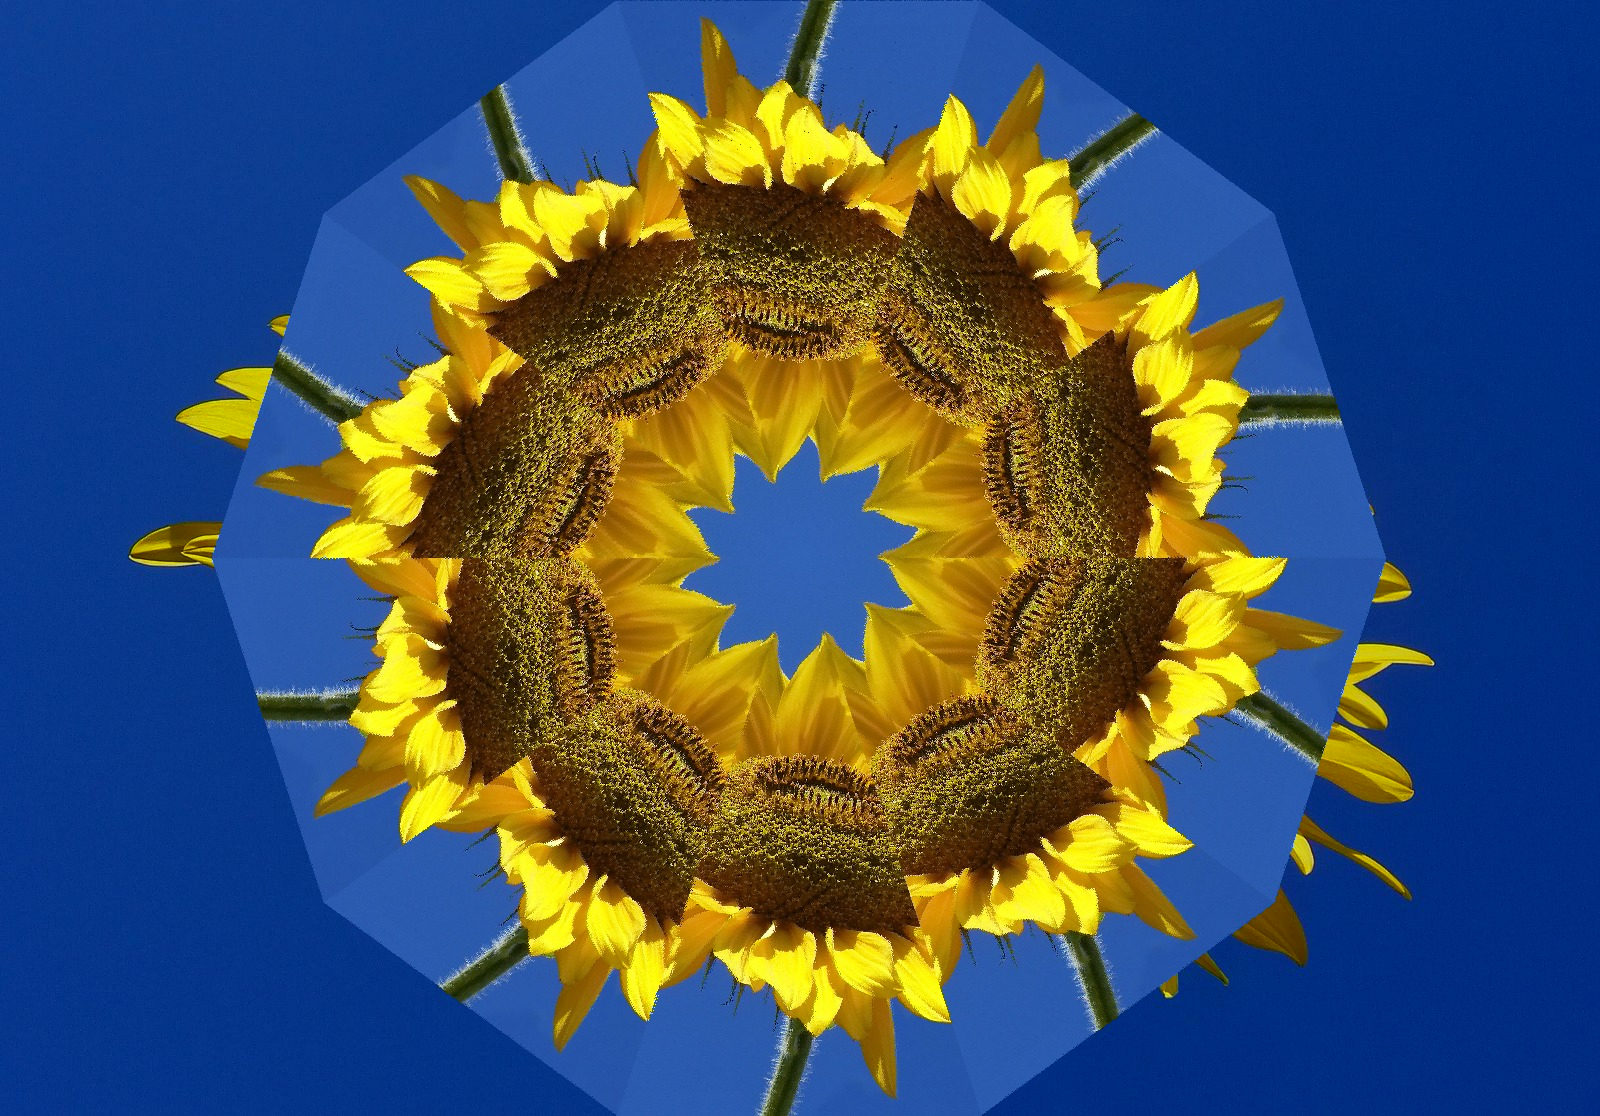
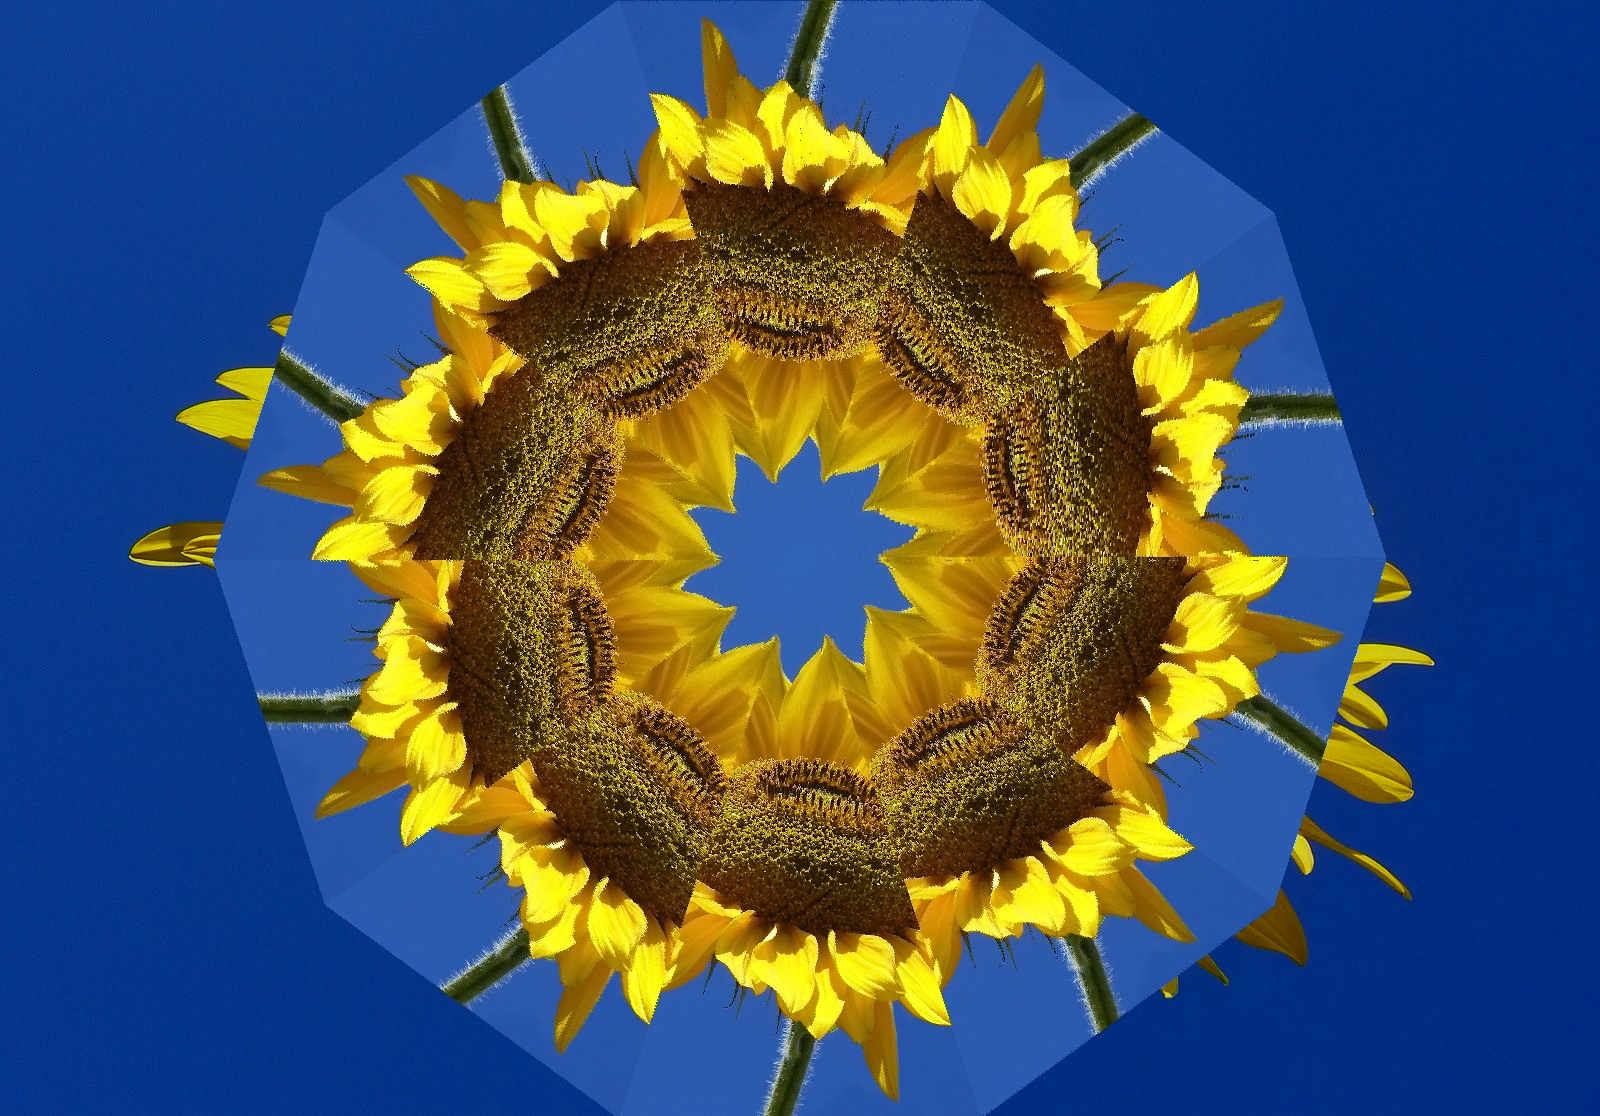
feat: Optimised smoothing inside the rim

diff --git a/my_library.c b/my_library.c
@@ -17,22 +17,22 @@ void kaleidoscope(uint8_t *yuvbuf_in, int width, int height,
   int buf_size = width * height * 3 / 2;
   memmove(yuvbuf_out, yuvbuf_in, buf_size);
 
-  // Offsets for indices of the YUV sections within the frame buffers
+  // Indices and offsets within the YUV sections of frame buffers
   int u_off = width * height;
   int v_off = u_off + (width / 2) * (height / 2);
   int uv_idx;
+  int h_dst; // Destination pixel height
+  int w_dst; // Destination pixel width
 
   // Luminocity and color channels
   uint8_t y, u, v;
   int f_dim = 40; // Preset dimming factor
 
-  // 6 o'clock triangle
+  // Kaleidoscope main triangle geometry
   double fi = 2 * M_PI / n_sectors; // Triangle top angle
   int height_mid = height / 2;
   int width_mid = width / 2;
   int width_length; // The length of the bottom half-side of the main triangle
-  int h_dst;        // Destination pixel height
-  int w_dst;        // Destination pixel width
 
   /****************************************************************************
    * >>====---------------           PIPELINE           ---------------====<< *
@@ -50,38 +50,30 @@ void kaleidoscope(uint8_t *yuvbuf_in, int width, int height,
   // 1. DIM the image
   dim_image(yuvbuf_out, width, height, f_dim);
 
-  /* 2. SHRINK: The main triangle to create the basic 6 o' clock kaleidoscope
+  /* 2. SHRINK the main triangle to create the basic 6 o' clock kaleidoscope
   triangle. Construction of the triangle is performed in a bottom up fashion.
   Vertical shrinking is implemented by skipping every second pixel in the height
   dimension of the original triangle. A schematic of the geometry is included in
   the README.md */
   for (int h = height - 1; h >= 0; h -= 2) {
-
-    // Split the base of the triangle in two halfs by using half of top angle
+    // Split the triangle base in two halfs
     width_length = h * tan(fi / 2);
 
-    // Horizontal shrinking by skipping every second pixel in  width dimension
+    // Shrink horizontaly by skipping every second pixel in width dimension
     for (int w = width_mid - width_length; w <= width_mid + width_length;
          w += 2) {
-
-      /* Get the YUV values of the pixel from the main triangle. These are 
-      bright since they are comming from the input image */
+      /* Get the YUV values of the pixel from the main triangle. These are
+      still bright since they are comming straight from the input image */
       uv_idx = (h / 2) * (width / 2) + (w / 2);
       y = yuvbuf_in[h * width + w];
       u = yuvbuf_in[u_off + uv_idx];
       v = yuvbuf_in[v_off + uv_idx];
 
-      // Calculate the coordinates of 6 o'clock triangle's respective position
+      // Get the coordinates of the 6 o'clock triangle's respective position
       h_dst = height_mid + h / 2;
       w_dst = width_mid + (w - width_mid) / 2;
 
-      // Copy pixel value to 6 o'clock triangle
-      uv_idx = (h_dst / 2) * (width / 2) + (w_dst / 2);
-      yuvbuf_out[h_dst * width + w_dst] = y;
-      yuvbuf_out[u_off + uv_idx] = u;
-      yuvbuf_out[v_off + uv_idx] = v;
-
-      // 3. ROTATE: Clone the pixel to all other sectors by rotation
+      // 3. ROTATE and copy the pixel color to all sectors
       clone_pixel(yuvbuf_out, width, height, w_dst, h_dst, fi, n_sectors, y, u,
                   v, u_off, v_off);
     } // End inner for
@@ -121,10 +113,7 @@ void clone_pixel(uint8_t *yuvbuf, int width, int height, int w, int h,
   r = sqrt(w * w + h * h);
   theta = atan2(h, w);
 
-  /* For all the sectors except the first one (multiplied by a factor of 2 for
-  enhancing image smoothness */
-  for (int s = 1; s < n_sectors * 2; ++s) {
-
+  for (int s = 0; s < n_sectors; ++s) {
     // Add the rotation factor to the angle while covering all quadrants
     theta = (s % 2 != 0) ? theta + fi * s : theta - fi * s;
 
@@ -133,37 +122,47 @@ void clone_pixel(uint8_t *yuvbuf, int width, int height, int w, int h,
     w_dst = r * cos(theta) + width / 2;
 
     // Set new pixel value at the rotated position
-    for (int i = 0; i < 3; ++i) {
+    for (int i = 0; i <= 4; ++i) {
       uv_idx = (h_dst / 2) * (width / 2) + (w_dst / 2);
       yuvbuf[h_dst * width + w_dst] = y;
       yuvbuf[u_off + uv_idx] = u;
       yuvbuf[v_off + uv_idx] = v;
 
-      // Painting some neighbor pixels as well for smoothing
-      if (i % 2 == 0) {
-        --h_dst;
-        --w_dst;
-      } else if (i % 3 == 0) {
-        --h_dst;
-        ++w_dst;
+      /* Paint some of the neighbor pixels for smoothing the kaleidoscope
+      +-----------------+
+      |     | i=0 |     |
+      +-----------------+
+      | i=3 | dst | i=4 |
+      +-----------------+
+      |     | i=2 |     |
+      +-----------------+
+      */
+      if (i == 0) {
+        h_dst--;
+      } else if (i == 1) {
+        h_dst += 2;
+      } else if (i == 2){
+        h_dst += 2;
+      } else if (i == 3) {
+        h_dst--;
+        w_dst--;
       } else {
-        ++h_dst;
-        --w_dst;
+        w_dst += 2;
       } // End if / else
 
       // Check we do not cross the image boundaries
       if (h_dst < 1 || h_dst > height - 1 || w_dst < 1 || w_dst > width - 1) {
         break;
-      }
-    } // End inner for
-  }   // End outer for
+      } // End if
+    }   // End inner for
+  }     // End outer for
 }
 
 /**
  * dim_image
  *
- * Dim all pixels of the input image according to the dimming factor by adjusting
- * the luminance channel (Y) value
+ * Dim all pixels of the input image according to the dimming factor by
+ * adjusting the luminance channel (Y) value
  */
 void dim_image(uint8_t *yuvbuf, int width, int height, int f_dim) {
   for (int h = 0; h < height; ++h) {
